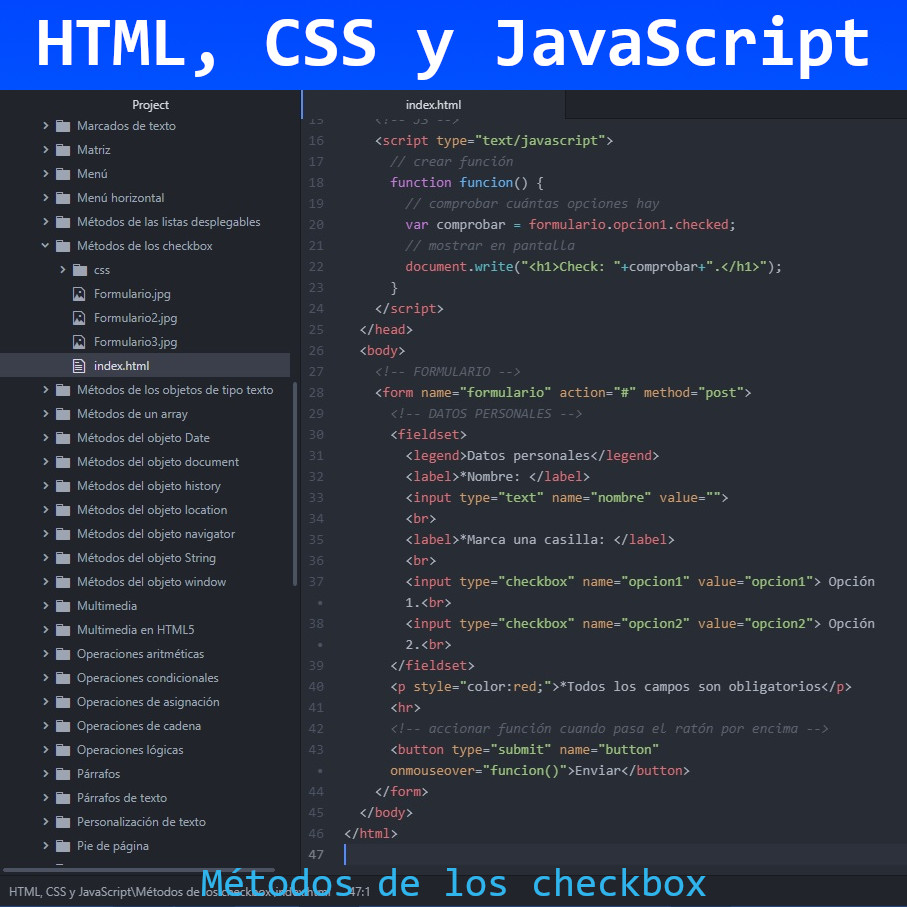
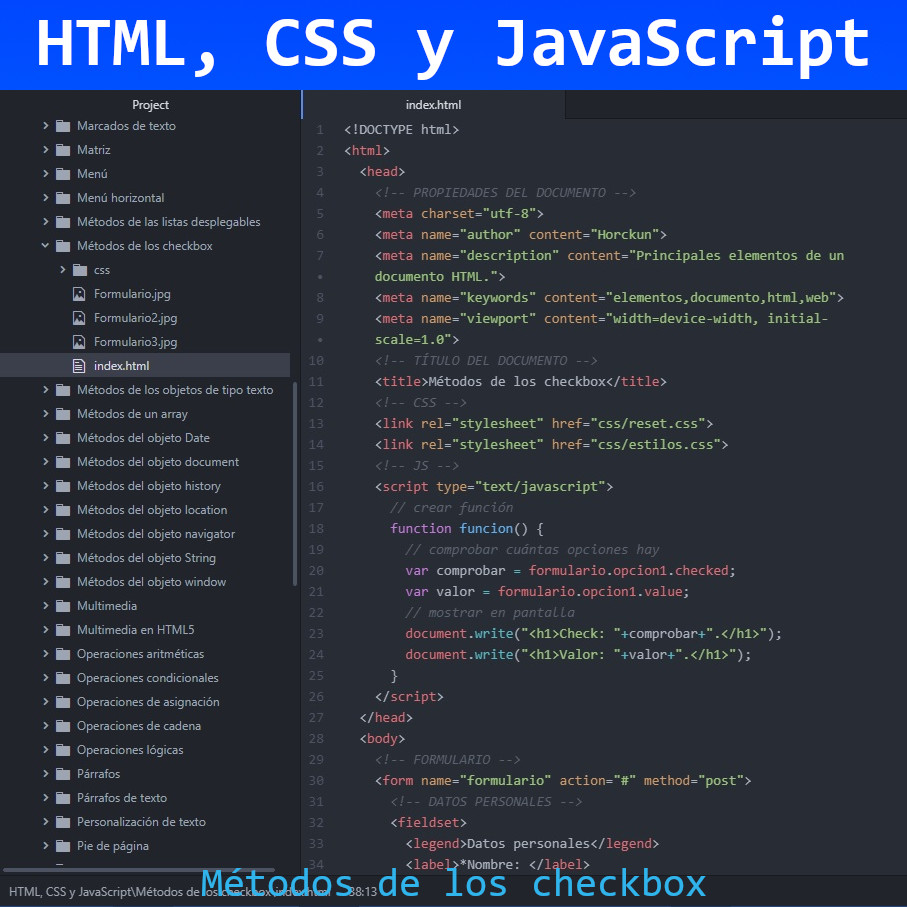
Métodos de los checklist
Métodos de los checklist en JavaScript

diff --git a/HTML, CSS y JavaScript/Métodos de los checkbox/index.html b/HTML, CSS y JavaScript/Métodos de los checkbox/index.html
@@ -18,8 +18,10 @@
       function funcion() {
         // comprobar cuántas opciones hay
         var comprobar = formulario.opcion1.checked;
+        var valor = formulario.opcion1.value;
         // mostrar en pantalla
         document.write("<h1>Check: "+comprobar+".</h1>");
+        document.write("<h1>Valor: "+valor+".</h1>");
       }
     </script>
   </head>
